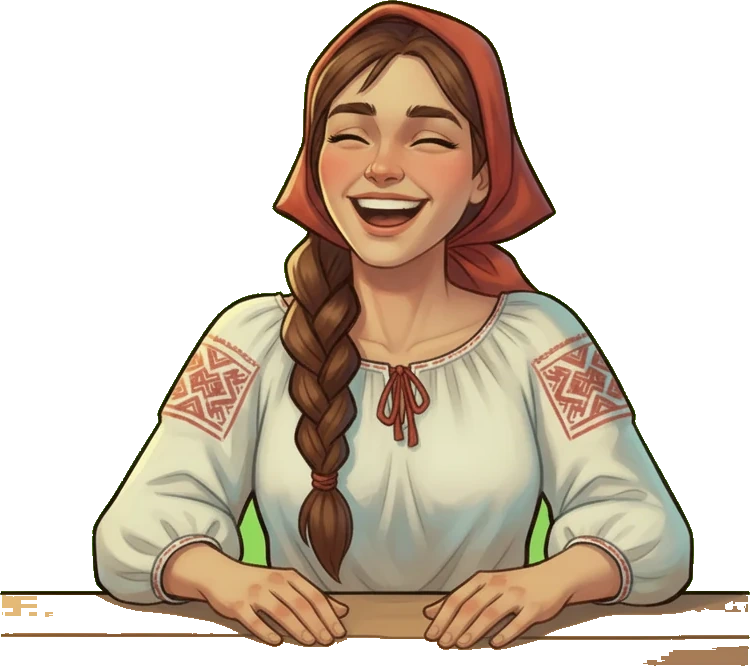
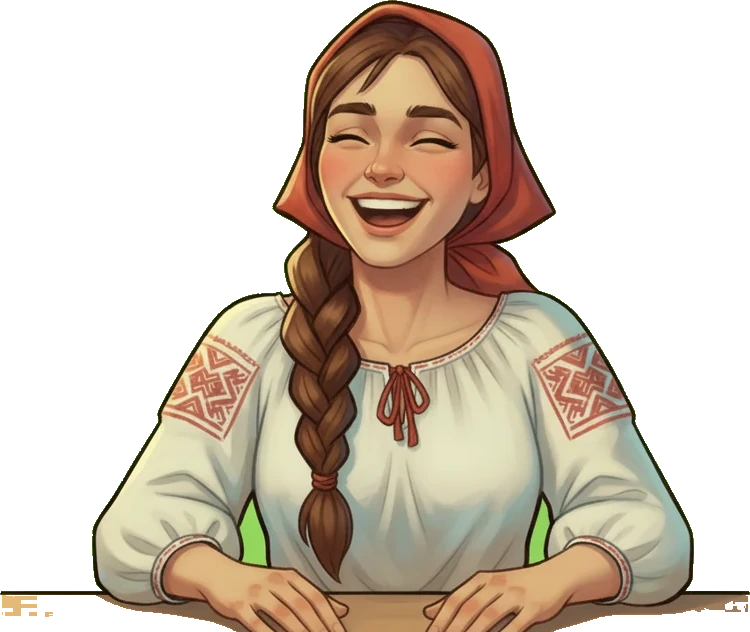
feat(carciuma): five seats around one table, bots by hand with a 2-player minimum, online-first player list, Carciuma on top of the dashboard, 1v1 removed

diff --git a/app/page.tsx b/app/page.tsx
@@ -3,7 +3,6 @@
 import { useEffect, useRef, useState, useCallback } from "react";
 import { BLACK_CHAT_COLOR, BLACK_NAME_OUTLINE, CHAT_COLORS, DEFAULT_CHAT_COLOR } from "@/lib/chatColors";
 import PromptText, { isArt } from "@/components/PromptText";
-import DuelLobbyPanel from "@/components/DuelLobbyPanel";
 import TowerLobbyPanel from "@/components/TowerLobbyPanel";
 import CarciumaLobbyPanel from "@/components/CarciumaLobbyPanel";
 import PlayersPanel from "@/components/PlayersPanel";
@@ -420,13 +419,22 @@ export default function Dashboard() {
           </div>
         </section>
 
-        {/* Center: the lobbies. 1 la 1, the Turnul (with the registered players
-            roster sitting to its right) and La Carciuma underneath. Every panel
-            can be folded away with ✕ and is remembered per browser. */}
+        {/* Center: La Carciuma up top, then the Turnul with the registered
+            players roster to its right. Every panel folds away with ✕ and the
+            choice is remembered per browser. */}
         <div className="w-full flex-1 min-w-0 flex flex-col gap-4">
-          <section className="bg-gradient-to-br from-[#122420] to-[#0c1a17] border-2 border-[#1e3a34] rounded-2xl shadow-2xl w-full p-[1.15rem] flex flex-col gap-2.5">
-            <DuelLobbyPanel onUnauthorized={() => { window.location.href = "/login"; }} />
-          </section>
+          {closedPanels.carciuma ? (
+            <button
+              onClick={() => setPanelClosed("carciuma", false)}
+              className="w-full rounded-2xl border-2 border-dashed border-[#4a2f12] bg-[#150e06]/80 px-3 py-4 text-left text-[0.8rem] text-[#c8a274] hover:border-[#7d4f16] hover:text-[#e2b877] cursor-pointer"
+            >
+              🍺 La Carciuma e închisă — <span className="underline">deschide-o</span>
+            </button>
+          ) : (
+            <section className="bg-gradient-to-br from-[#2a1a0b] to-[#150e06] border-2 border-[#4a2f12] rounded-2xl shadow-2xl w-full p-[1.15rem] flex flex-col gap-2.5">
+              <CarciumaLobbyPanel onUnauthorized={() => { window.location.href = "/login"; }} onClose={() => setPanelClosed("carciuma", true)} />
+            </section>
+          )}
 
           <div className="flex flex-col sm:flex-row gap-4 items-stretch">
             {closedPanels.tower ? (
@@ -456,18 +464,6 @@ export default function Dashboard() {
             )}
           </div>
 
-          {closedPanels.carciuma ? (
-            <button
-              onClick={() => setPanelClosed("carciuma", false)}
-              className="w-full rounded-2xl border-2 border-dashed border-[#4a2f12] bg-[#150e06]/80 px-3 py-4 text-left text-[0.8rem] text-[#c8a274] hover:border-[#7d4f16] hover:text-[#e2b877] cursor-pointer"
-            >
-              🍺 La Carciuma e închisă — <span className="underline">deschide-o</span>
-            </button>
-          ) : (
-            <section className="bg-gradient-to-br from-[#2a1a0b] to-[#150e06] border-2 border-[#4a2f12] rounded-2xl shadow-2xl w-full p-[1.15rem] flex flex-col gap-2.5">
-              <CarciumaLobbyPanel onUnauthorized={() => { window.location.href = "/login"; }} onClose={() => setPanelClosed("carciuma", true)} />
-            </section>
-          )}
         </div>
 
         {/* Right rail */}

diff --git a/components/CarciumaLobbyPanel.tsx b/components/CarciumaLobbyPanel.tsx
@@ -15,6 +15,7 @@ type Mine = {
 } | null;
 
 const SEATS = 5;
+const MIN_PLAYERS = 2;
 
 function ago(iso: string) {
   const s = Math.max(0, Math.round((Date.now() - new Date(iso).getTime()) / 1000));
@@ -92,6 +93,20 @@ export default function CarciumaLobbyPanel({
       const r = await fetch(`/api/carciuma/${id}/join`, { method: "POST" });
       const d = await r.json().catch(() => ({}));
       if (!r.ok) setErr(d.error || "N-am putut lua loc la masă.");
+      await load();
+    } catch {
+      setErr("Eroare de rețea.");
+    }
+    setBusy(null);
+  }
+
+  async function callBots(id: string) {
+    setBusy("bots");
+    setErr("");
+    try {
+      const r = await fetch(`/api/carciuma/${id}/bots`, { method: "POST" });
+      const d = await r.json().catch(() => ({}));
+      if (!r.ok) setErr(d.error || "N-am putut chema localnicii.");
       await load();
     } catch {
       setErr("Eroare de rețea.");
@@ -202,14 +217,21 @@ export default function CarciumaLobbyPanel({
           ) : hosting ? (
             <>
               <button
+                onClick={() => callBots(mine.id)}
+                disabled={busy !== null || filled >= SEATS}
+                className="bg-[#1d1208] border-2 border-[#6b451f] rounded-lg text-[#e8c46a] font-cinzel text-[0.82rem] tracking-wide p-2 hover:brightness-125 disabled:opacity-40 cursor-pointer"
+              >
+                {busy === "bots" ? "Chem localnicii…" : "🎲 Adaugă localnici pe scaunele libere"}
+              </button>
+              <button
                 onClick={() => start(mine.id)}
-                disabled={busy !== null}
+                disabled={busy !== null || filled < MIN_PLAYERS}
                 className="bg-gradient-to-br from-[#8fd9a8] to-[#3f8f63] border-2 border-[#8fd9a880] rounded-lg text-[#08201a] font-cinzel text-[0.95rem] tracking-wider p-2.5 hover:brightness-110 active:translate-y-px disabled:opacity-40 cursor-pointer"
               >
                 {busy === "start" ? "Pornesc…" : "▶ Începe băutura"}
               </button>
               <div className="text-[#9d7c56] text-[0.7rem] text-center leading-snug">
-                {filled > 1 ? `${filled} la masă — restul scaunelor le iau localnicii.` : "Poți porni și singur: boții iau scaunele libere."}
+                {filled < MIN_PLAYERS ? `Mai e nevoie de ${MIN_PLAYERS - filled} jucător — cheamă localnici sau așteaptă pe cineva.` : `${filled} la masă. Poți porni.`}
               </div>
             </>
           ) : (
@@ -251,7 +273,7 @@ export default function CarciumaLobbyPanel({
               </span>
               <button
                 onClick={() => join(g.id)}
-                disabled={busy !== null || !!mine}
+                disabled={busy !== null}
                 className="shrink-0 bg-gradient-to-br from-[#c98b3f] to-[#7d4f16] border-2 border-[#e2b87760] rounded-lg text-[#1a1208] font-cinzel text-[0.78rem] px-3.5 py-1.5 hover:brightness-110 disabled:opacity-40 cursor-pointer"
               >
                 {busy === g.id ? "Intru…" : "Ia loc"}

diff --git a/components/CarciumaScene.tsx b/components/CarciumaScene.tsx
@@ -18,11 +18,12 @@ type Cfg = { left: string; bottom: string; width: string; delay: string; z: numb
 // seats around the round table: two at the back (behind the felt), two at the
 // sides, one in front. Everyone faces the camera, poker-room style.
 const SEAT: Record<number, Cfg> = {
-  1: { left: "18%", bottom: "44%", width: "20%", delay: "0.4s", z: 1 },
-  2: { left: "62%", bottom: "44%", width: "20%", delay: "1.2s", z: 1 },
-  3: { left: "0%", bottom: "12%", width: "25%", delay: "0.8s", z: 3 },
-  4: { left: "75%", bottom: "12%", width: "25%", delay: "1.6s", z: 3 },
-  0: { left: "35%", bottom: "17%", width: "27%", delay: "2.0s", z: 1 },
+  // three across the back, two at the near corners: everyone behind the rim
+  1: { left: "14%", bottom: "43%", width: "21%", delay: "0.4s", z: 1 },
+  2: { left: "39%", bottom: "45%", width: "22%", delay: "1.2s", z: 1 },
+  3: { left: "65%", bottom: "43%", width: "21%", delay: "1.8s", z: 1 },
+  0: { left: "-1%", bottom: "9%", width: "26%", delay: "0.9s", z: 3 },
+  4: { left: "75%", bottom: "9%", width: "26%", delay: "2.1s", z: 3 },
 };
 
 // one distinct character per seat, so the same face never shows up twice
@@ -107,17 +108,17 @@ export default function CarciumaScene({
       />
 
       {/* the back pair sits behind the table */}
-      {[1, 2].map((seat) => (
+      {[1, 2, 3].map((seat) => (
         <Patron key={seat} seat={seat} face={faces.get(seat) ?? "costel"} p={bySeat.get(seat)} action={action} flashSeat={flashSeat} winnerSeat={winnerSeat} />
       ))}
 
       {/* the poker table */}
-      <div className="pointer-events-none absolute" style={{ left: "15%", bottom: "2%", width: "70%", zIndex: 2 }}>
+      <div className="pointer-events-none absolute" style={{ left: "13%", bottom: "0%", width: "74%", zIndex: 2 }}>
         <CarciumaTable className="w-full" />
       </div>
 
 
-      {[3, 4, 0].map((seat) => (
+      {[0, 4].map((seat) => (
         <Patron key={seat} seat={seat} face={faces.get(seat) ?? "costel"} p={bySeat.get(seat)} action={action} flashSeat={flashSeat} winnerSeat={winnerSeat} />
       ))}
 
@@ -132,11 +133,11 @@ export default function CarciumaScene({
 
 
 const PLATE_AT: Record<number, { left: string; top: string }> = {
-  1: { left: "27%", top: "31%" },
-  2: { left: "71%", top: "31%" },
-  3: { left: "12%", top: "60%" },
-  4: { left: "87%", top: "60%" },
-  0: { left: "48%", top: "45%" },
+  1: { left: "24%", top: "31%" },
+  2: { left: "50%", top: "29%" },
+  3: { left: "76%", top: "31%" },
+  0: { left: "11%", top: "57%" },
+  4: { left: "88%", top: "57%" },
 };
 
 function Plate({ p, at }: { p: ScenePlayer; at: { left: string; top: string } }) {

diff --git a/components/PlayersPanel.tsx b/components/PlayersPanel.tsx
@@ -17,6 +17,7 @@ export default function PlayersPanel({ onClose }: { onClose?: () => void }) {
   const [players, setPlayers] = useState<Player[]>([]);
   const [me, setMe] = useState<string | null>(null);
   const [open, setOpen] = useState(true);
+  const [showOffline, setShowOffline] = useState(false);
 
   const load = useCallback(async () => {
     try {
@@ -36,7 +37,10 @@ export default function PlayersPanel({ onClose }: { onClose?: () => void }) {
     return () => clearInterval(t);
   }, [load]);
 
-  const online = players.filter((p) => p.online).length;
+  const onlineList = players.filter((p) => p.online);
+  const offlineList = players.filter((p) => !p.online);
+  const online = onlineList.length;
+  const shown = showOffline ? [...onlineList, ...offlineList] : onlineList;
 
   return (
     <div className="flex flex-col gap-2 min-h-0">
@@ -59,9 +63,16 @@ export default function PlayersPanel({ onClose }: { onClose?: () => void }) {
         </button>
       </div>
 
+      <button
+        onClick={() => setShowOffline((v) => !v)}
+        className="self-start text-[0.64rem] text-[#75938f] hover:text-[#9ec6c1] cursor-pointer"
+      >
+        {showOffline ? "▾ ascunde jucătorii offline" : `▸ arată jucătorii offline (${offlineList.length})`}
+      </button>
+
       <div className={`overflow-y-auto pr-0.5 ${open ? "max-h-[268px]" : "max-h-0 overflow-hidden"}`}>
         <ul className="flex flex-col gap-1">
-          {players.map((p) => (
+          {shown.map((p) => (
             <li
               key={p.id}
               className="flex items-center gap-1.5 rounded-lg border border-[#1e3a34] bg-[#050d0b] px-2 py-1 text-[0.76rem]"
@@ -79,7 +90,10 @@ export default function PlayersPanel({ onClose }: { onClose?: () => void }) {
               )}
             </li>
           ))}
-          {players.length === 0 && <li className="text-[#75938f] text-[0.72rem] text-center p-3">Se încarcă…</li>}
+          {!players.length && <li className="text-[#75938f] text-[0.72rem] text-center p-3">Se încarcă…</li>}
+          {!!players.length && !shown.length && (
+            <li className="text-[#75938f] text-[0.72rem] text-center p-2">Nimeni online acum.</li>
+          )}
         </ul>
       </div>
     </div>

diff --git a/lib/carciuma.ts b/lib/carciuma.ts
@@ -22,6 +22,7 @@ export const CARCIUMA_ROUND_MS = envMs("CARCIUMA_ROUND_MS", 15_000); // answer w
 export const CARCIUMA_ROUND_GRACE_MS = envMs("CARCIUMA_ROUND_GRACE_MS", 1_500); // let an in-flight answer land
 export const CARCIUMA_INTERMISSION_MS = envMs("CARCIUMA_INTERMISSION_MS", 6_000); // breather: "X bea!"
 export const CARCIUMA_MAX_DRINKS = 3; // then you pass out
+export const CARCIUMA_MIN_PLAYERS = 2; // enough for a drinking contest
 export const CARCIUMA_WAITING_TTL_MS = 10 * 60_000; // forgotten lobbies die
 export const CARCIUMA_BOT_NAMES = ["Bogdan", "Mirela", "Nea Costel", "Roxana", "Doru", "Lenuța"];
 /** Bots get roughly this share of questions right — enough to make the table lively. */
@@ -78,9 +79,12 @@ export async function fillCarciumaBots(gameId: string): Promise<void> {
 }
 
 export async function startCarciuma(gameId: string): Promise<void> {
+  const seated = await prisma.carciumaPlayer.count({ where: { gameId } });
+  if (seated < CARCIUMA_MIN_PLAYERS) {
+    throw new Error(`e nevoie de cel puțin ${CARCIUMA_MIN_PLAYERS} jucători la masă`);
+  }
   const plan = await buildCarciumaPlan();
   if (!plan.length) throw new Error("nu există întrebări publicate");
-  await fillCarciumaBots(gameId);
   await prisma.carciumaGame.update({
     where: { id: gameId },
     data: {

diff --git a/app/api/carciuma/[id]/bots/route.ts b/app/api/carciuma/[id]/bots/route.ts
@@ -1,0 +1,22 @@
+import { NextResponse } from "next/server";
+import { cookies } from "next/headers";
+import { prisma } from "@/lib/prisma";
+import { verifySession, SESSION_COOKIE } from "@/lib/session";
+import { fillCarciumaBots } from "@/lib/carciuma";
+
+// POST /api/carciuma/[id]/bots -> host fills every empty chair with a local.
+export async function POST(_req: Request, ctx: { params: Promise<{ id: string }> }) {
+  const token = (await cookies()).get(SESSION_COOKIE)?.value;
+  const session = await verifySession(token);
+  if (!session) return NextResponse.json({ error: "unauthorized" }, { status: 401 });
+
+  const { id } = await ctx.params;
+  const game = await prisma.carciumaGame.findUnique({ where: { id }, select: { hostId: true, status: true } });
+  if (!game) return NextResponse.json({ error: "not found" }, { status: 404 });
+  if (game.hostId !== session.sub) return NextResponse.json({ error: "doar gazda cheamă localnicii" }, { status: 403 });
+  if (game.status !== "WAITING") return NextResponse.json({ error: "masa a început" }, { status: 409 });
+
+  await fillCarciumaBots(id);
+  const seated = await prisma.carciumaPlayer.count({ where: { gameId: id } });
+  return NextResponse.json({ ok: true, seated });
+}

diff --git a/scripts/cut-carciuma-sprites.py b/scripts/cut-carciuma-sprites.py
@@ -71,12 +71,13 @@ def key_green(im: Image.Image, trim_band: bool = True) -> Image.Image:
             if frac[y] > 0.5:
                 cut = y
             else:
-                cut = min(len(frac), y + 4)
+                cut = min(len(frac), max(40, y - int(h * 0.045)))
                 break
     # kill the semi-transparent green halo the keying leaves on the edge
     a2 = np.array(out)
     a2[:, :, 3] = np.where(a2[:, :, 3] < 200, 0, 255)
     out = Image.fromarray(a2, "RGBA")
+    cut = min(cut, h - int(h * 0.16))  # cut the baked table ledge away
     out = out.crop((0, 0, w, max(cut, 40)))
     bbox = out.split()[3].getbbox()
     if bbox:
